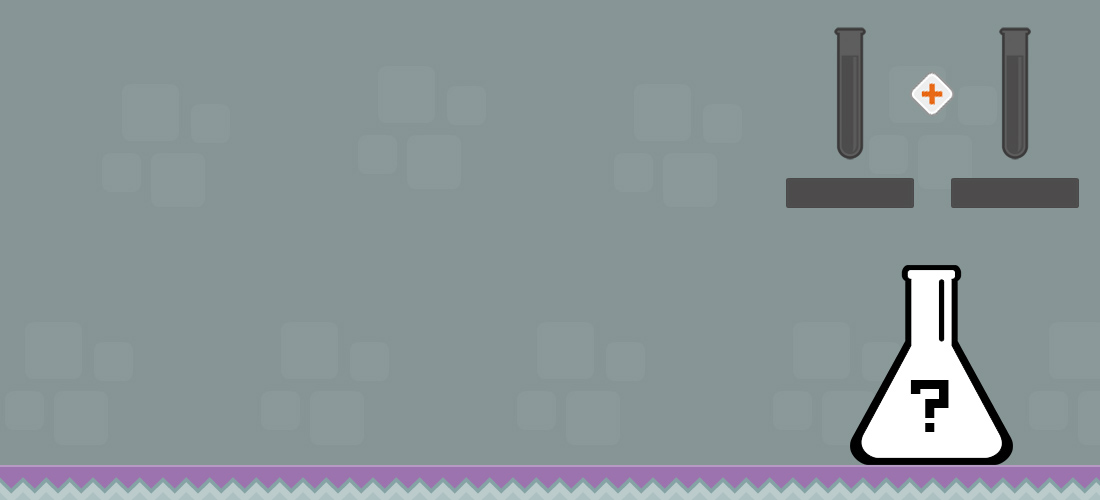
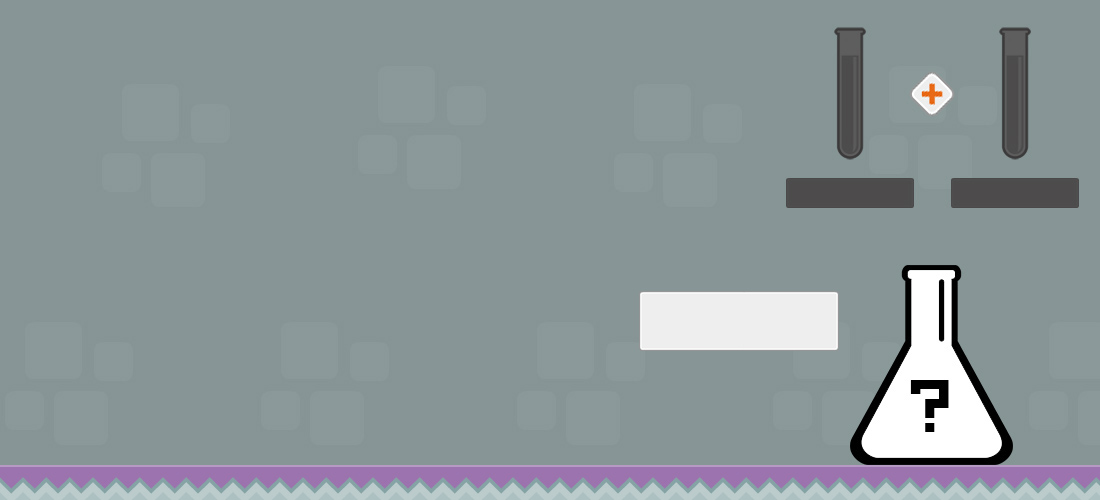
balance scene update

Changed region(s): [[0.5564, 0.57, 0.7727, 0.72]]

diff --git a/script.js b/script.js
@@ -82,36 +82,25 @@ class MenuScene extends Phaser.Scene {
 
     create(){
 
-        let score = [0];
         this.add.image(0, 0, 'menu').setOrigin(0);
-
-        var jogar = createSprite(50, 250, 'jogar', this)
-            .on('pointerup', function (pointer){
-                this.scene.start('GameScene', {score: 0});
-            }, this);
-
-        var guia = createSprite(400, 250, 'guia', this)
-            .on('pointerup', function (pointer){
-                this.scene.start('GuiaScene');
-            }, this);
-
-        var creditos = createSprite(750, 250, 'creditos', this)
-            .on('pointerup', function (pointer){
-                this.scene.start('CreditScene');
-            }, this);
-
         this.input.on('gameobjectover', function (pointer, gameObject) {
             gameObject.alpha = 0.8;
         });
-
         this.input.on('gameobjectout', function (pointer, gameObject) {
             gameObject.alpha = 1;
         });
 
-        function createSprite(x, y, reference, scene){
+        var jogar = createSprite(50, 250, 'jogar', this, 'GameScene');
+        var guia = createSprite(400, 250, 'guia', this, 'GuiaScene');
+        var creditos = createSprite(750, 250, 'creditos', this, 'CreditScene');
+
+        function createSprite(x, y, reference, scene, key){
             let newSprite = scene.add.sprite(x, y, reference)
                 .setOrigin(0)
                 .setInteractive()
+                .on('pointerup', function (pointer){
+                    scene.scene.start(key);
+                }, scene);
             return newSprite;
         }
     }
@@ -176,6 +165,23 @@ class GameScene extends Phaser.Scene {
     create (data){
 
         const posx = [786, 951], posy = 27;
+        const textStyle = 
+        {
+            fontFamily: 'Forced Square',
+            fontSize: 30,
+            color: 'blueviolet',
+            align: 'center',
+            fixedWidth: 210,
+            fixedHeight: 50,
+            shadow: {
+                offsetX: 0.8,
+                offsetY: 0.8,
+                color: '#000',
+                blur: 0.5,
+                stroke: true,
+                fill: true
+            }
+        }
         var popup;
         var slot = [false, false];
         var reactaux = 
@@ -189,16 +195,12 @@ class GameScene extends Phaser.Scene {
             cacl2: false
         };
 
-        this.score = data.score;
+        data.score ? this.score = data.score : this.score = 0;
         
         this.add.image(0, 0, 'bg')
             .setOrigin(0);
 
-        var text = this.add.text(600, 300, "SELECIONE DOIS\n    REAGENTES  " +this.score, 
-        {
-            fontFamily: 'Forced Square',
-            fontSize: 20
-        });
+        var text = this.add.text(634, 297, "ESCOLHA OS\nREAGENTES", textStyle);
 
         this.input.on('gameobjectover', function (pointer, gameObject) {
             gameObject.alpha = 0.8;
@@ -245,8 +247,11 @@ class GameScene extends Phaser.Scene {
                 reactaux.cacl2 = selecting(cacl2, 484, 256, reactaux.cacl2);
         });
 
+        /// --- REACOINS --- ///
+        var scoreholder = this.add.text(520, 100, this.score, textStyle);
+
         /// --- REACT LIST --- ///
-        var reacoes = createSprite(635, 49, 'reacoes', this)
+        var reacoes = createSprite(520, 49, 'reacoes', this)
             .on('pointerup', function(pointer){
                 popup = createSprite(25, 30, 'list', this)
                     .on('pointerup', function (pointer){
@@ -305,7 +310,7 @@ class GameScene extends Phaser.Scene {
                         break;                         
                     }
                 }
-            }, this); //zerar array?
+            }, this);
 
         /// --- FUNCTIONS --- ///
         function createSprite(x, y, reference, scene){
@@ -327,12 +332,12 @@ class GameScene extends Phaser.Scene {
             for(let i in reactaux){
                 reactaux[i] = false;
             }
-            text.setText('REAÇÃO INVÁLIDA');
-            setTimeout(() => text.setText('SELECIONE DOIS\n    REAGENTES'), 1000);
+            text.setText('REAÇÃO\nINVÁLIDA').setStyle({color: 'red'});
+            setTimeout(() => text.setText("ESCOLHA OS\nREAGENTES").setStyle(textStyle), 1000);
         }
  
         function selecting(element, x, y, state){
-            var s = state;
+            let s = state;
             if(!s && !slot[1] || !s && !slot[0]){
                 switch(slot[0]){
                     case false:
@@ -346,7 +351,7 @@ class GameScene extends Phaser.Scene {
                         slot[1] = true;
                         break;
                 }
-            } else {
+            } else { 
                 switch(element.x){
                     case 786:
                         element.setPosition(x, y);
@@ -386,7 +391,35 @@ class BalanceScene extends Phaser.Scene {
             r8: [1, 2, 1, 1],
             r9: [1, 1, 1, 1]
         }
-        var collectCoef = [], Answer = [], score = data[0];
+        const textStyle = 
+        [
+            {
+                fontFamily: 'Forced Square',
+                fontSize: '30px',
+                color: 'blueviolet',
+                align: 'center',
+                fixedHeight: 50,
+                shadow: {
+                    offsetX: 0.8,
+                    offsetY: 0.8,
+                    color: '#000',
+                    blur: 0.5,
+                    stroke: true,
+                    fill: true
+                }
+            },
+            {
+                type: 'number',
+                text: '0',
+                color: 'blueviolet',
+                fontSize: '35px',
+                fontFamily: 'Forced Square',
+                backgroundColor: '#333333',
+                align: 'center'
+            }
+        ]
+
+        var collectCoef = [], Answer = [], newScore = data[0];
         var coefV = generateInput(110, 65, this, 0);
         var coefW = generateInput(225, 65, this, 1);
         var coefX = generateInput(110, 133, this, 2);
@@ -406,6 +439,8 @@ class BalanceScene extends Phaser.Scene {
         var inputbox = this.add.image(50, 50, 'inputbox')
             .setOrigin(0);
 
+        var text = this.add.text(634, 297, "ESCOLHA OS\nREAGENTES", textStyle[0]);
+
         var redcheck = this.add.sprite(310, 95, 'redcheck')
             .setOrigin(0)
             .setInteractive()
@@ -416,13 +451,7 @@ class BalanceScene extends Phaser.Scene {
                         break;
                     }
                 }
-                checkInput() ? this.scene.start('GameScene', {score: score}) : console.log('errou')
-                console.log(collectCoef);
-                console.log(Answer);
-
-                //funçao comparação
-
-                //zerar array?
+                checkInput() ? correctInput(this) : wrongInput()
             }, this);
 
         this.input.on('gameobjectover', function (pointer, gameObject) {
@@ -433,6 +462,16 @@ class BalanceScene extends Phaser.Scene {
             gameObject.alpha = 1;
         });
 
+        function correctInput(ref){
+            newScore++
+            ref.scene.start('GameScene', {score: newScore})
+        }
+
+        function wrongInput(){
+            text.setText('BALANCEAMENTO\nERRADO').setStyle({color: 'red'});
+            setTimeout(() => text.setText("ESCOLHA OS\nREAGENTES").setStyle(textStyle[0]), 1000);
+        }
+
         function checkInput(){
             let result = false;
             for(let i of Answer){
@@ -440,21 +479,11 @@ class BalanceScene extends Phaser.Scene {
                     result = true;
                 }
             }
-            score++;
             return result;
         }
 
         function generateInput(x, y, scene, selector){
-            var inputText = scene.add.rexInputText(x, y, 55, 35, 
-            {
-                type: 'number',
-                text: '0',
-                color: 'blueviolet',
-                fontSize: '35px',
-                fontFamily: 'Forced Square',
-                backgroundColor: '#333333',
-                align: 'center'
-            })
+            var inputText = scene.add.rexInputText(x, y, 55, 35, textStyle[1])
                 .setOrigin(0)
                 .on('textchange', function (inputText) {
                     collectCoef[selector] = parseInt(inputText.text);
